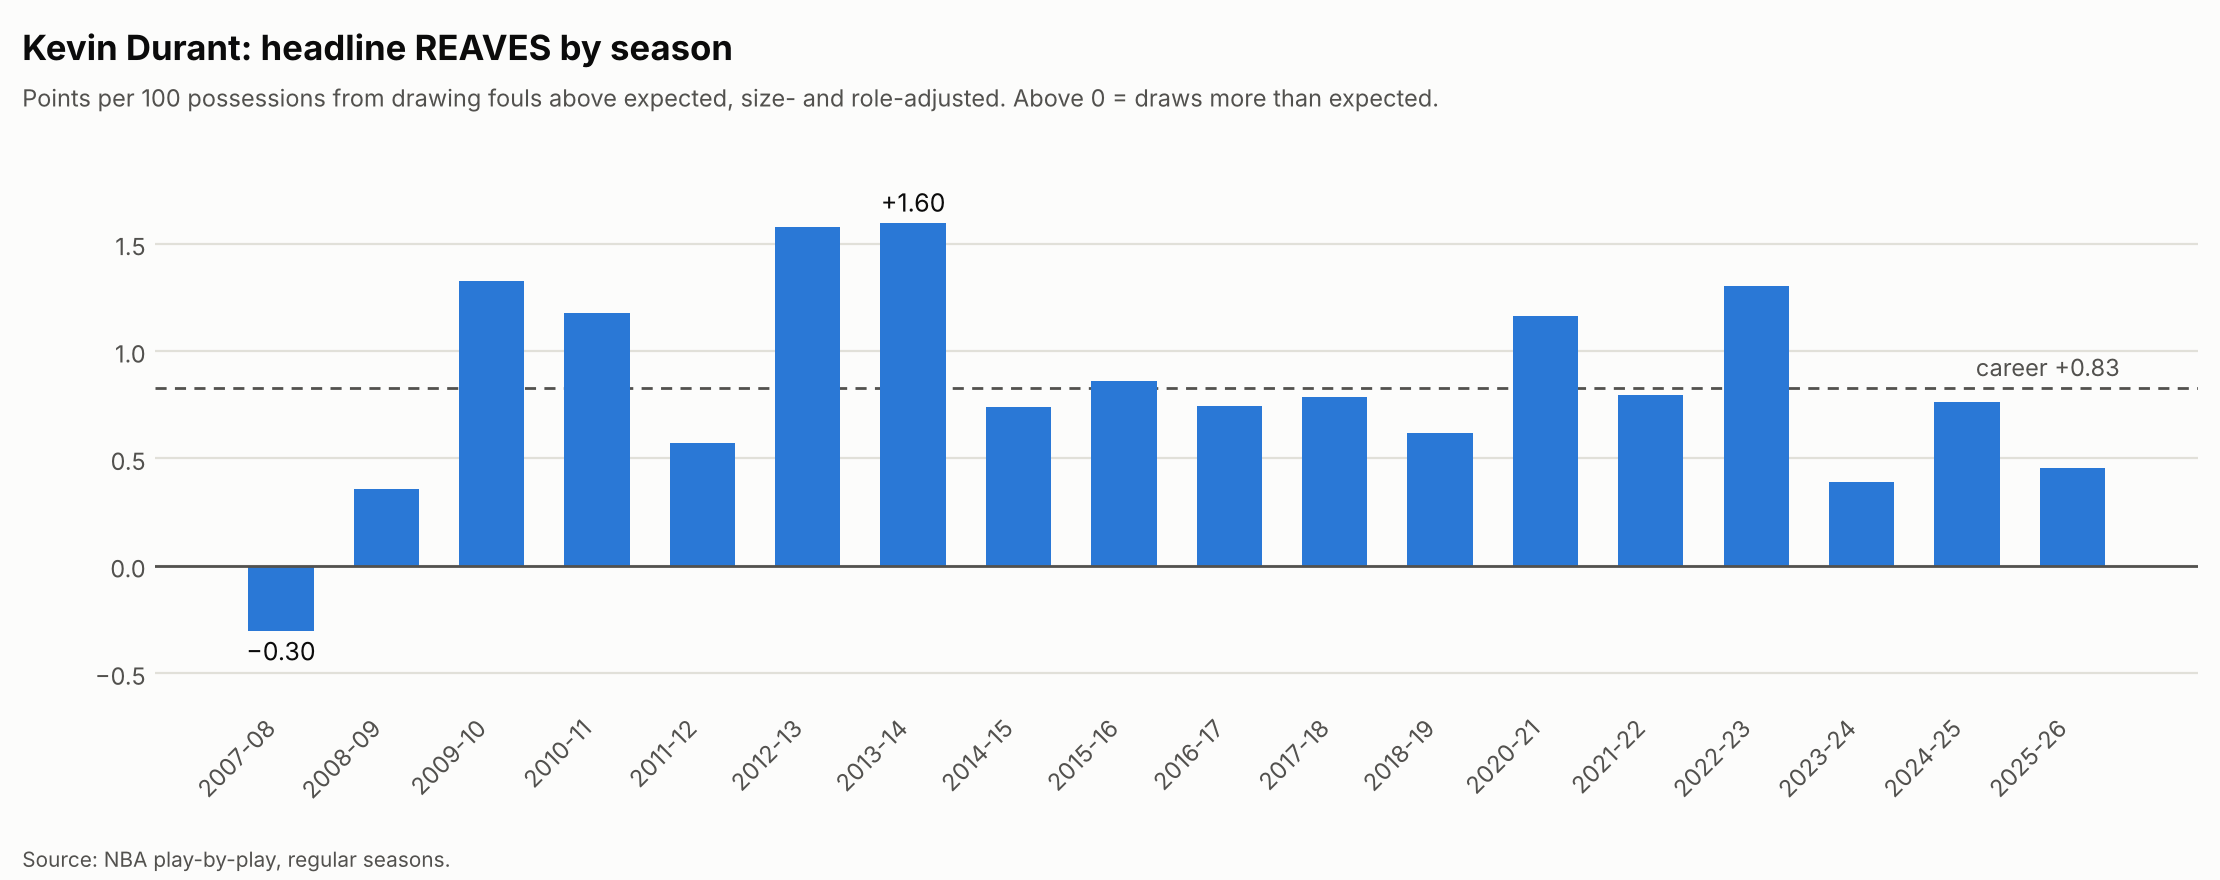
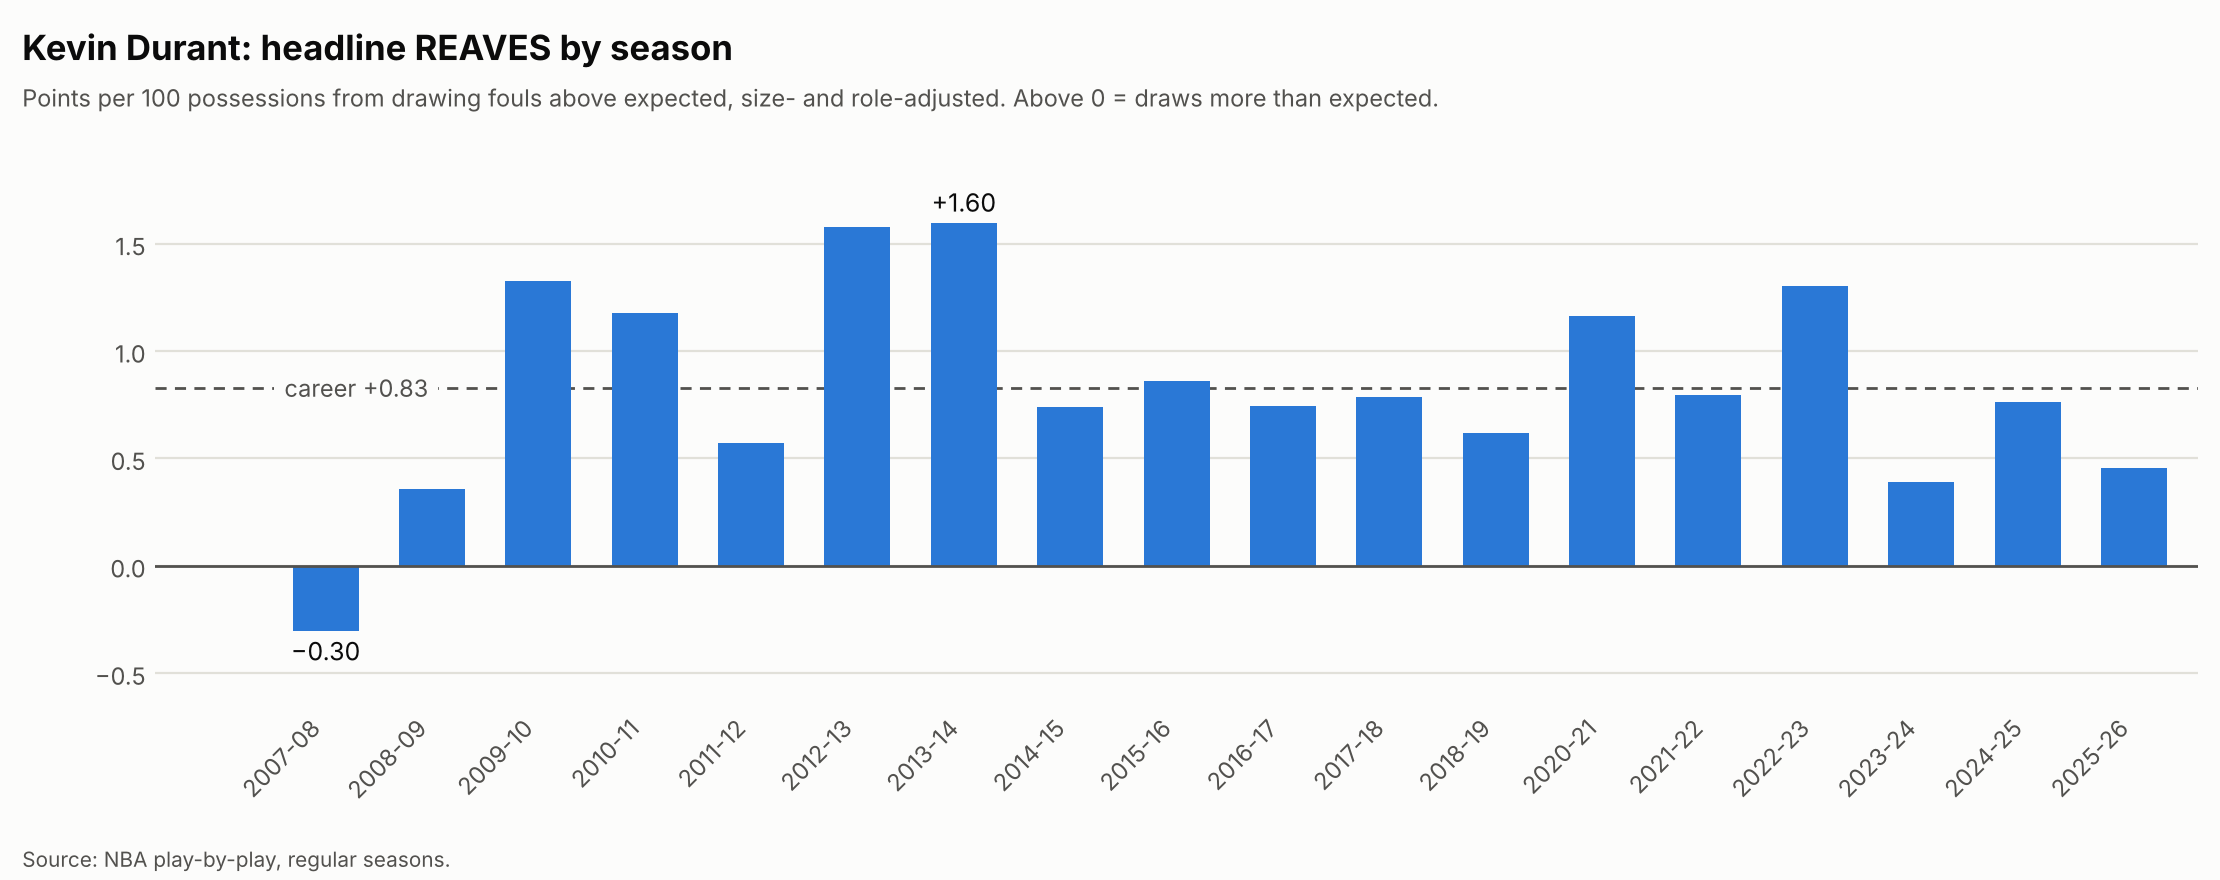
Harden headline REAVES chart; career label moved to the left edge on all charts
Claude-Session: https://claude.ai/code/session_01HoqhV455G91FitupZYu6Zi

Changed region(s): [[0.0932, 0.2148, 0.9946, 0.767], [0.0932, 0.8284, 0.9635, 0.8898], [0.9014, 0.3989, 0.9635, 0.4295]]

diff --git a/ft_study/src/chart_headline.py b/ft_study/src/chart_headline.py
@@ -14,10 +14,10 @@ fig,ax=plt.subplots(figsize=(max(6.5,0.45*len(m)+3),4.4),dpi=200); fig.patch.set
 ax.bar(range(len(m)),m.hl,width=0.62,color=[LIGHT if p else BLUE for p in m.partial],zorder=3)
 ax.axhline(0,color=INK2,lw=1,zorder=4)
 ax.axhline(car,color=INK2,lw=1,ls=(0,(4,3)),zorder=2)
-ax.text(len(m)-0.55,car+(0.03 if car>=0 else -0.03),f'career {car:+.2f}'.replace('-','−'),ha='right',va='bottom' if car>=0 else 'top',fontsize=8.5,color=INK2)
+ax.text(-0.45,car,f' career {car:+.2f} '.replace('-','−'),ha='left',va='center',fontsize=8.5,color=INK2,zorder=5,bbox=dict(boxstyle='square,pad=0.15',fc=BG,ec='none'))
 for i in {m.hl.idxmax(),m.hl.idxmin()}:
     v=m.hl[i]; ax.text(i,v+(0.025 if v>0 else -0.025),f"{v:+.2f}".replace('-','−'),ha='center',va='bottom' if v>0 else 'top',fontsize=9,color=INK)
-ax.set_xticks(range(len(m))); ax.set_xticklabels(lab,rotation=45,ha='right',fontsize=8.5,color=INK2)
+ax.set_xlim(-1.6,len(m)-0.4); ax.set_xticks(range(len(m))); ax.set_xticklabels(lab,rotation=45,ha='right',fontsize=8.5,color=INK2)
 ax.tick_params(axis='y',labelsize=8.5,colors=INK2,length=0); ax.tick_params(axis='x',length=0)
 ax.yaxis.grid(True,color=GRID,lw=0.8,zorder=0); [s.set_visible(False) for s in ax.spines.values()]
 lo,hi=min(m.hl.min(),car,0),max(m.hl.max(),car,0); pad=0.18*(hi-lo); ax.set_ylim(lo-pad,hi+pad)
